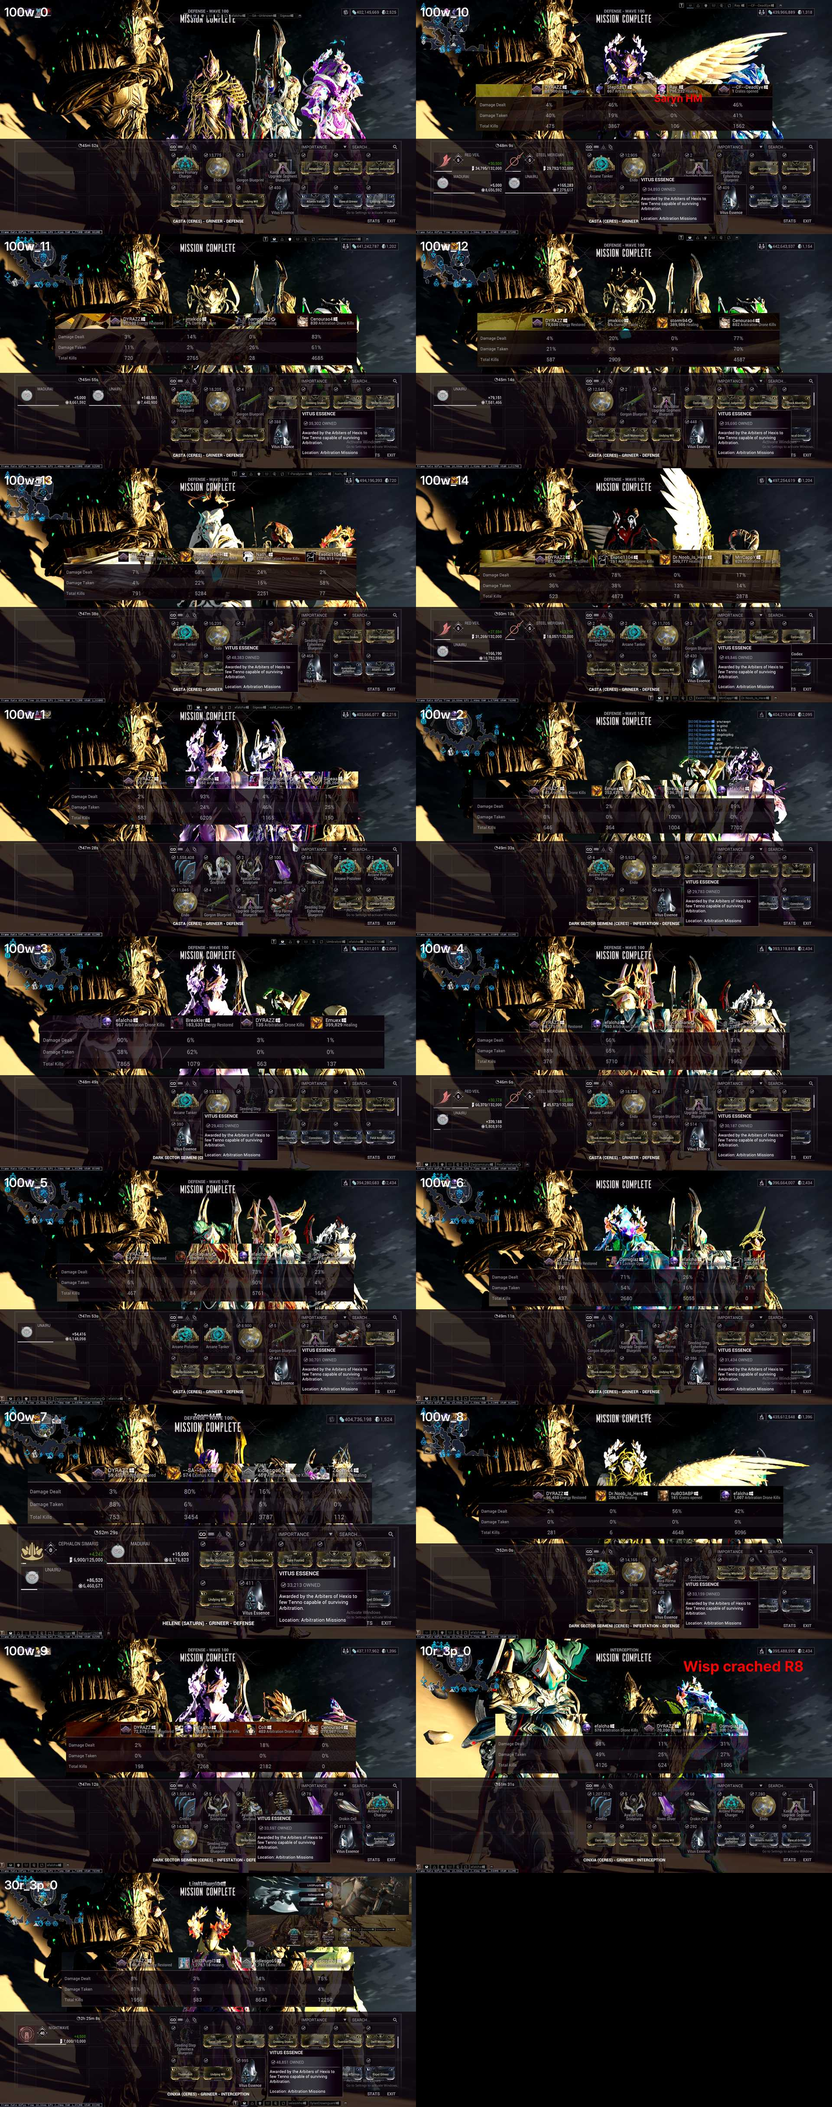
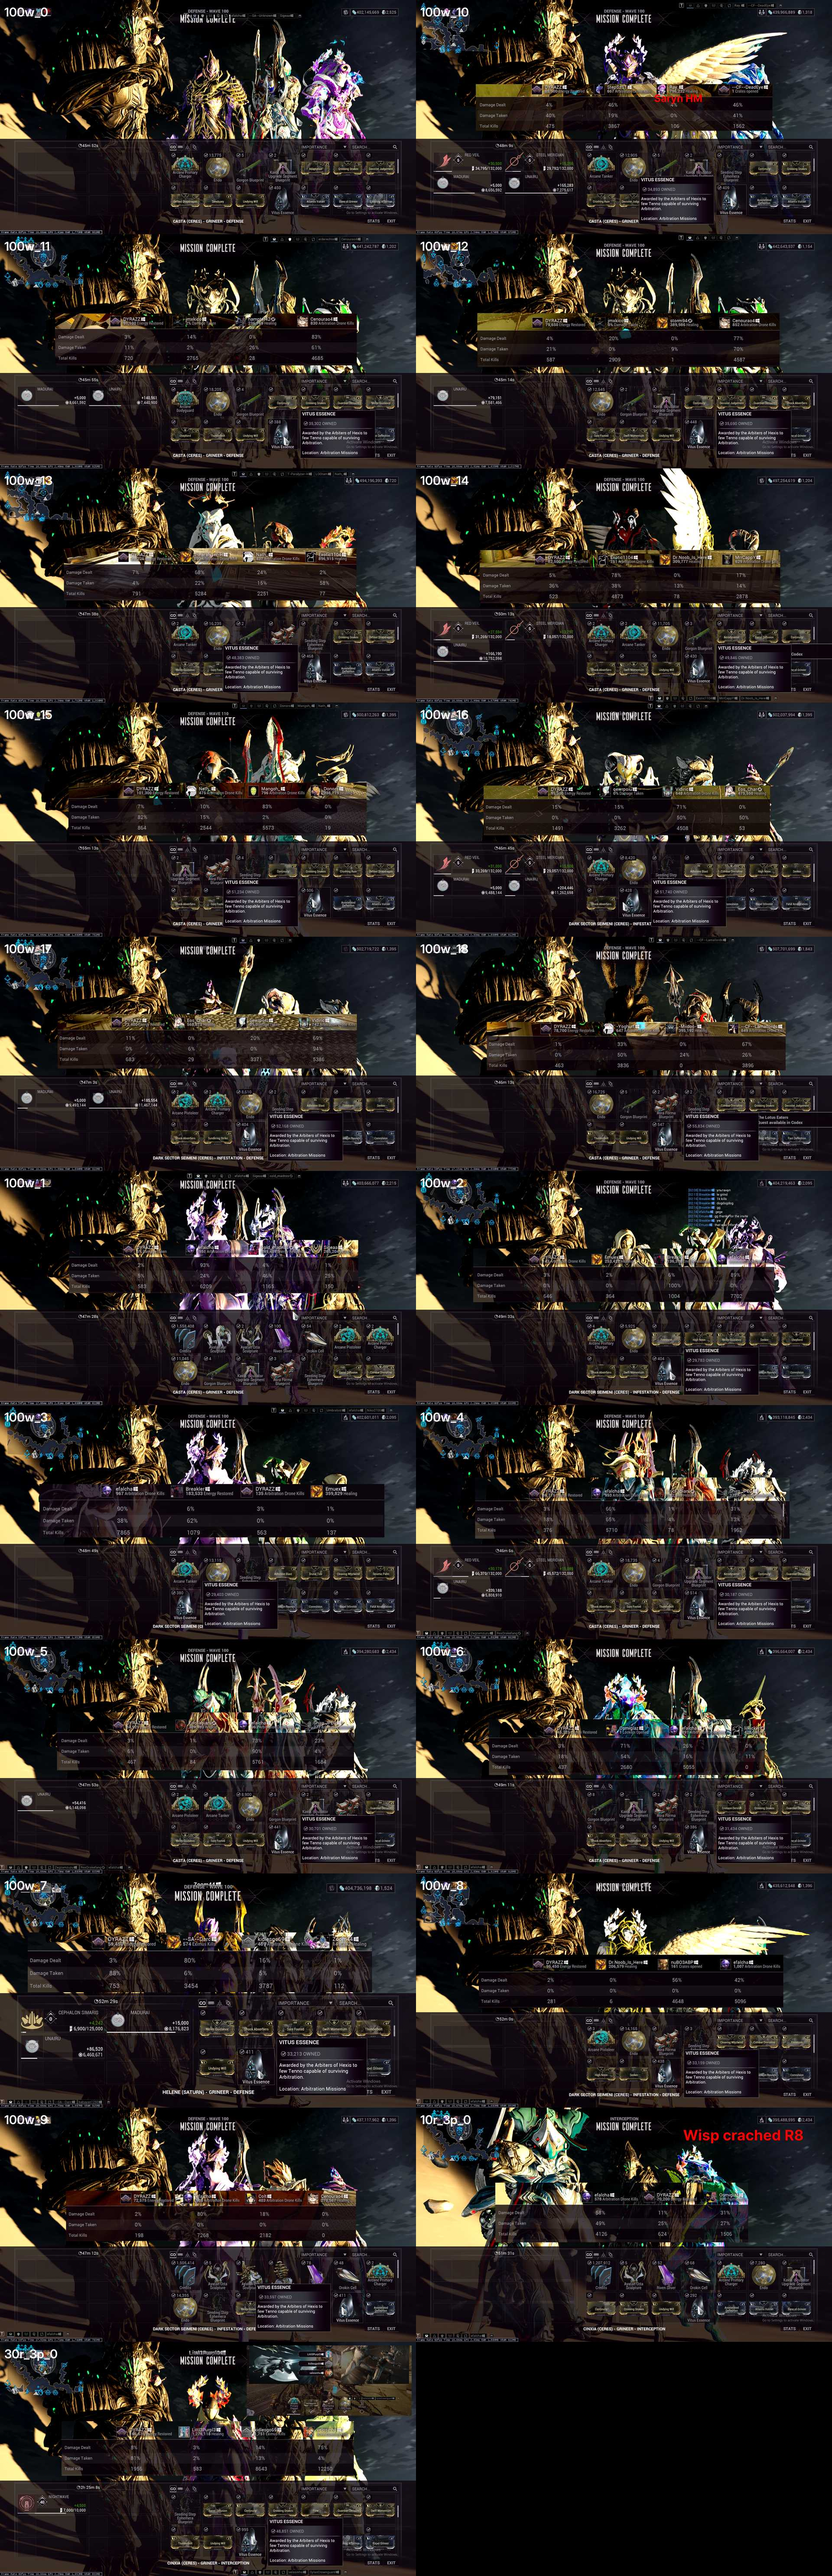
Update runs

diff --git a/README.md b/README.md
@@ -1,21 +1,21 @@
-|       |   mirage |   saryn |   wisp |   chroma |   volt |   octavia |   total |
-|:------|---------:|--------:|-------:|---------:|-------:|----------:|--------:|
-| 100w  |        9 |      11 |     17 |       15 |      0 |         0 |      52 |
-| 200w  |        0 |       0 |      0 |        0 |      0 |         0 |       0 |
-| 10r   |        0 |       4 |      0 |        1 |      0 |         0 |       5 |
-| 20r   |        0 |       3 |      0 |        0 |      0 |         0 |       3 |
-| 30r   |        2 |       1 |      1 |        1 |      1 |         0 |       6 |
-| 40r   |        1 |       0 |      0 |        0 |      0 |         0 |       1 |
-| 50r   |        2 |       0 |      0 |        0 |      0 |         0 |       2 |
-| total |       29 |      24 |     20 |       19 |      3 |         0 |      95 |
+|       |   saryn |   mirage |   chroma |   wisp |   volt |   octavia |   total |
+|:------|--------:|---------:|---------:|-------:|-------:|----------:|--------:|
+| 100w  |      22 |       10 |       19 |     18 |      1 |         0 |      70 |
+| 200w  |       0 |        1 |        0 |      0 |      0 |         0 |       1 |
+| 10r   |       4 |        0 |        1 |      0 |      0 |         0 |       5 |
+| 20r   |       5 |        0 |        0 |      0 |      0 |         0 |       5 |
+| 30r   |       1 |        2 |        1 |      1 |      1 |         0 |       6 |
+| 40r   |       0 |        1 |        0 |      0 |      0 |         0 |       1 |
+| 50r   |       0 |        2 |        0 |      0 |      0 |         0 |       2 |
+| total |      39 |       32 |       23 |     21 |      4 |         0 |     119 |
 
 |         | Average Kill per 100w   | Average Kill per 10r   |
 |:--------|:------------------------|:-----------------------|
-| chroma  | 529                     | 638                    |
-| mirage  | 2727                    | 3230                   |
+| chroma  | 606                     | 638                    |
+| mirage  | 2732                    | 3230                   |
 | octavia | -                       | -                      |
-| saryn   | 3697                    | 4262                   |
-| volt    | -                       | 1570                   |
-| wisp    | 254                     | 139                    |
+| saryn   | 3968                    | 4586                   |
+| volt    | 503                     | 1570                   |
+| wisp    | 257                     | 139                    |
 
-Updated 2024-09-01 16:44 UTC+0
+Updated 2024-09-14 20:44 UTC+0
